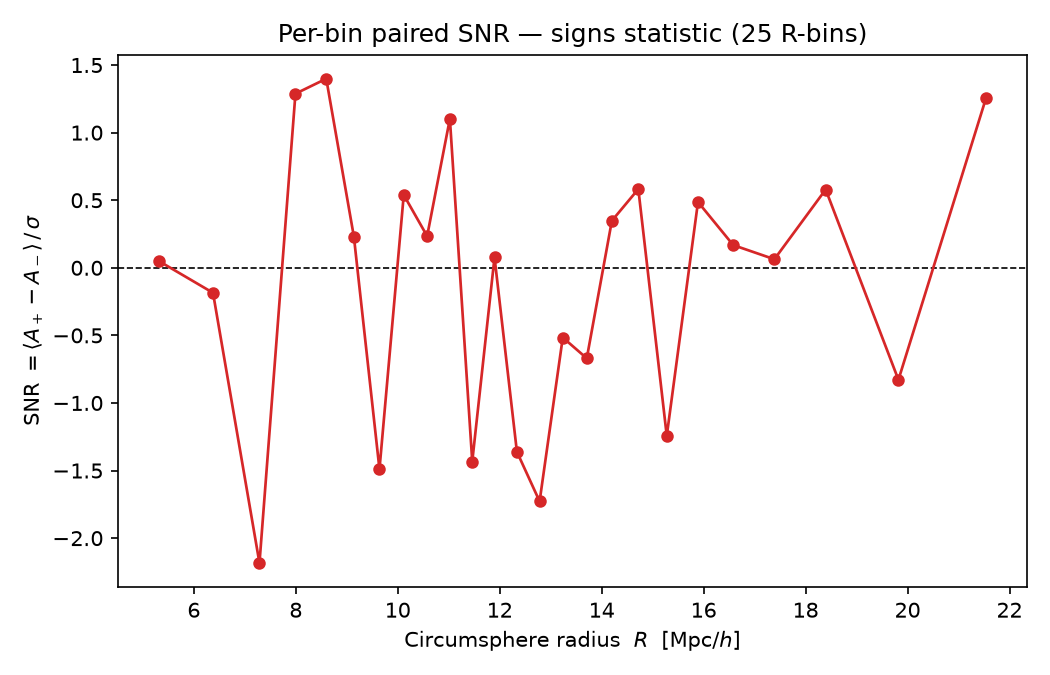
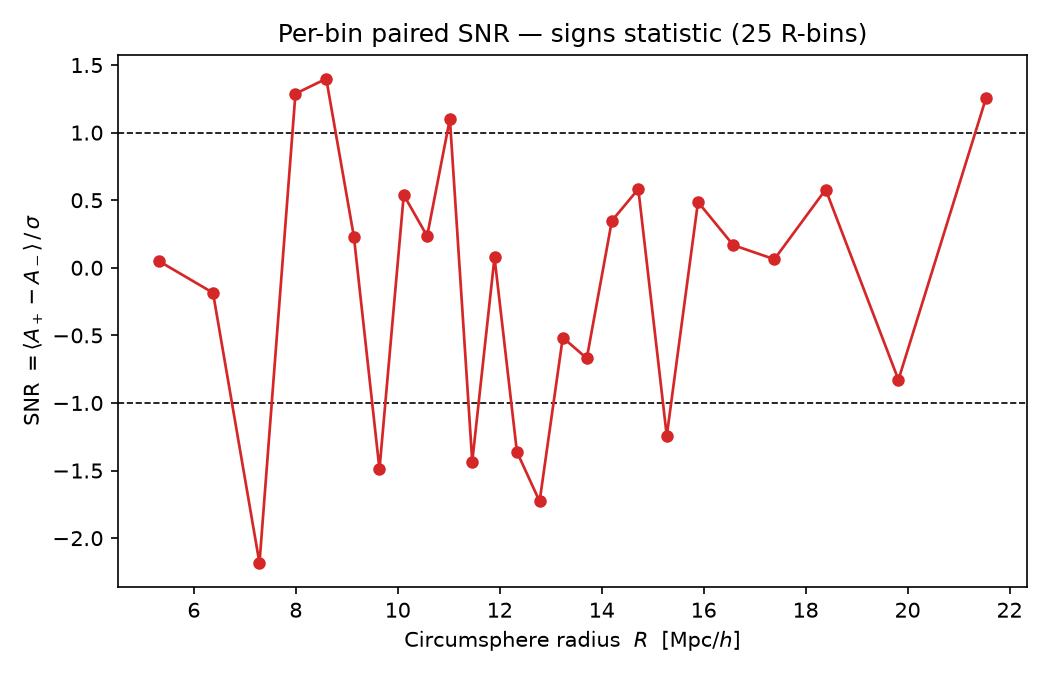
binned SNR plots function of circumsphere radius R

diff --git a/plot.py b/plot.py
@@ -30,7 +30,8 @@ snr    = mean_D / err_D                       # SNR in each bin
 
 # --- plot ---
 plt.figure(figsize=(7, 4.5))
-plt.axhline(0, color="k", lw=0.8, ls="--")
+plt.axhline(1, color="k", lw=0.8, ls="--")
+plt.axhline(-1, color="k", lw=0.8, ls="--")
 plt.plot(centers, snr, "o-", color="C3", lw=1.3, ms=5)
 plt.xlabel(r"Circumsphere radius  $R$  [Mpc/$h$]")
 plt.ylabel(r"SNR $= \langle A_+ - A_- \rangle \, / \, \sigma$")
